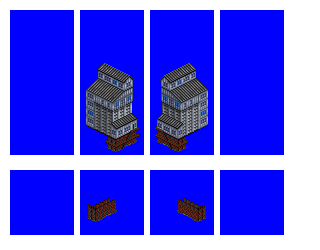
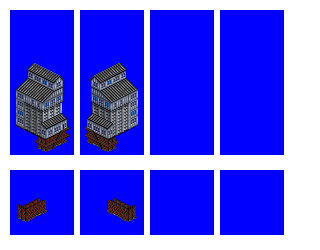
Change: automatically interpolate spriteset and spritelayout for nw-se orientation

diff --git a/src/station.py b/src/station.py
@@ -104,6 +104,7 @@ class FacilityType(object):
     def unpack_sprite_or_spriteset(
         self,
         sprite_or_spriteset,
+        orientation,
         snow_overlay=False,
     ):
         # note the annoying edge case where 'empty' should not have a snow overlay
@@ -116,6 +117,7 @@ class FacilityType(object):
             suffix = ""
         if isinstance(sprite_or_spriteset, Spriteset):
             # tiny optimisation, don't use an animation sprite selector if there is no animation
+            # !!!! CABBAGE - animation won't work correctly currently, and would need extended to handle the orientations correctly (ne-sw = even, nw-se = odd)
             if sprite_or_spriteset.animation_rate > 0:
                 if sprite_or_spriteset.custom_sprite_selector:
                     sprite_selector = (
@@ -128,7 +130,11 @@ class FacilityType(object):
                         str(sprite_or_spriteset.animation_rate) + "* (animation_frame)"
                     )
             else:
-                sprite_selector = "0"
+                match orientation:
+                    case "ne_sw":
+                        sprite_selector = str(0)
+                    case "nw_se":
+                        sprite_selector = str(1)
             if sprite_or_spriteset.type != "":
                 # ground tile assumes sprite_or_spriteset.type will always map to a ground_tile type
                 # have to accomodate number of frames needed (num_sprites_to_autofill) for animated spritelayouts
@@ -240,13 +246,12 @@ class Station(object):
 
     @property
     def spritelayouts_as_nml_array(self):
-        result = ",".join(self.layout.spritelayout_ids)
-        # !! temp hax to make it compile whilst some tiles have no layout defined
-        if len(result) == 0:
-            return []
-        # !! repetition of result is hax, to get even length array temporarily
-        # !! need to actually repeat the spritelayout / spritesets to handle NW-SE and NE-SW orientations
-        return "[" + result + "," + result + "]"
+        result = []
+        # extend per orientation, with ne-sw as even numbered, and nw-se as odd numbered, which OpenTTD will then pick up appropriate to each orientation
+        for orientation_suffix in ["_ne_sw", "_nw_se"]:
+            for spritelayout_id in self.layout.spritelayout_ids:
+                result.append(spritelayout_id + orientation_suffix)
+        return "[" + ",".join(result) + "]"
 
 
 class RailStationBase(Station):
@@ -294,7 +299,7 @@ class Spriteset(object):
     def __init__(
         self,
         id,
-        sprites=[],
+        sprites_ne_sw=[],
         type="",
         xoffset=0,
         yoffset=0,
@@ -308,9 +313,7 @@ class Spriteset(object):
         num_sprites_to_autofill=1,
     ):
         self.id = id
-        self.sprites = (
-            sprites  # a list of sprites 6-tuples in format (x, y, w, h, xoffs, yoffs)
-        )
+        self.sprites_ne_sw = sprites_ne_sw  # a list of sprites 6-tuples in format (x, y, w, h, xoffs, yoffs)
         self.type = type  # set to ground or other special types, or omit for default (building, greeble, foundations etc - graphics from png named same as industry)
         self.animation_rate = animation_rate  # (must be int)
         self.custom_sprite_selector = custom_sprite_selector
@@ -324,6 +327,28 @@ class Spriteset(object):
         self.yextent = yextent
         self.zextent = 32  # it's of limited use setting zextent, just make it 32 and be done with it
         self.always_draw = always_draw
+
+    @property
+    def sprites_both_orientations(self):
+        # we want to interleave sprites so ne_sw are even numbered, and nw_se are odd numbered
+        # this is cascaded up to spritelayouts, then picked up by OpenTTD automatically when picking which spritelayout to use for the orientation
+        result = []
+        for sprite_ne_sw in self.sprites_ne_sw:
+            sprite_nw_se = [
+                sprite_ne_sw[0] + sprite_ne_sw[2] + 6, # !! CABBAGE this assumes 6px spacing on 64 wide sprites, is this always the case??
+                sprite_ne_sw[1],
+                sprite_ne_sw[2],
+                sprite_ne_sw[3],
+                sprite_ne_sw[4],
+                sprite_ne_sw[5],
+            ]
+            result.append(
+                {
+                    "ne_sw": sprite_ne_sw,
+                    "nw_se": sprite_nw_se,
+                }
+            )
+        return result
 
 
 class SpriteLayout(object):
@@ -351,8 +376,8 @@ class SpriteLayout(object):
 
 class StationLayout(list):
     """
-        Base class to hold station layouts
-        Extends default python list, as it's a convenient behaviour (the instantiated class instance behaves like a list object).
+    Base class to hold station layouts
+    Extends default python list, as it's a convenient behaviour (the instantiated class instance behaves like a list object).
     """
 
     def __init__(

diff --git a/src/stations/flood_loader_silo.py b/src/stations/flood_loader_silo.py
@@ -12,22 +12,19 @@ def main():
     )
     spriteset_ground_overlay = facility_type.add_spriteset(type="empty")
     spriteset_1 = facility_type.add_spriteset(
-        sprites=[(10, 10, 64, 80, -31, -49)],
+        sprites_ne_sw=[(10, 10, 64, 145, -31, -114)],
+        # sprites_nw_se are automatically interpolated in the general case
+    )
+    spriteset_2 = facility_type.add_spriteset(
+        sprites_ne_sw=[(10, 170, 64, 65, -31, -34)],
+        # sprites_nw_se are automatically interpolated in the general case
     )
 
     facility_type.add_spritelayout(
         id="flood_loader_silo_spritelayout_1",
         ground_sprite=spriteset_ground,
         ground_overlay=spriteset_ground_overlay,
-        building_sprites=[spriteset_1],
-        fences=["nw", "ne", "se", "sw"],
-    )
-
-    facility_type.add_spritelayout(
-        id="flood_loader_silo_spritelayout_2",
-        ground_sprite=spriteset_ground,
-        ground_overlay=spriteset_ground_overlay,
-        building_sprites=[spriteset_1],
+        building_sprites=[spriteset_2, spriteset_1],
         fences=["nw", "ne", "se", "sw"],
     )
 
